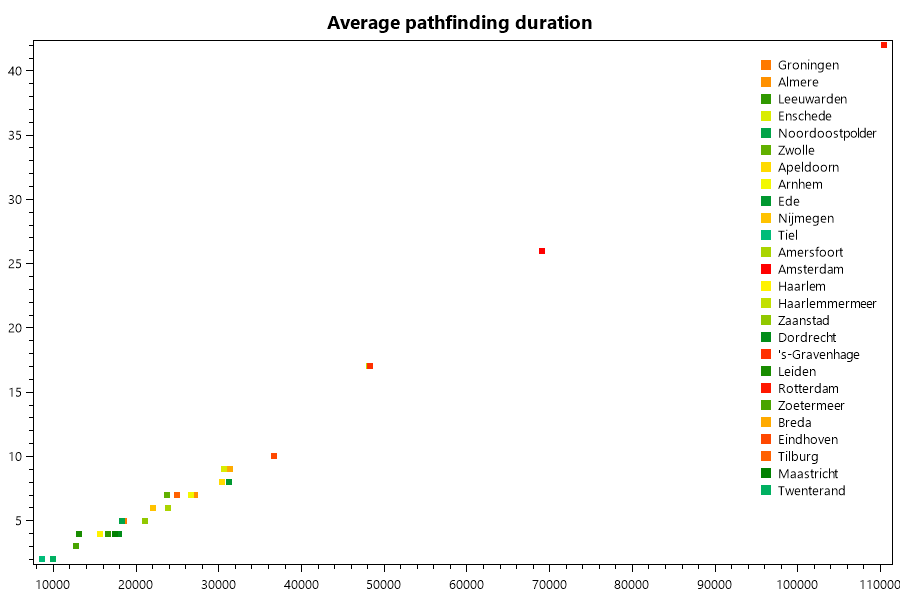
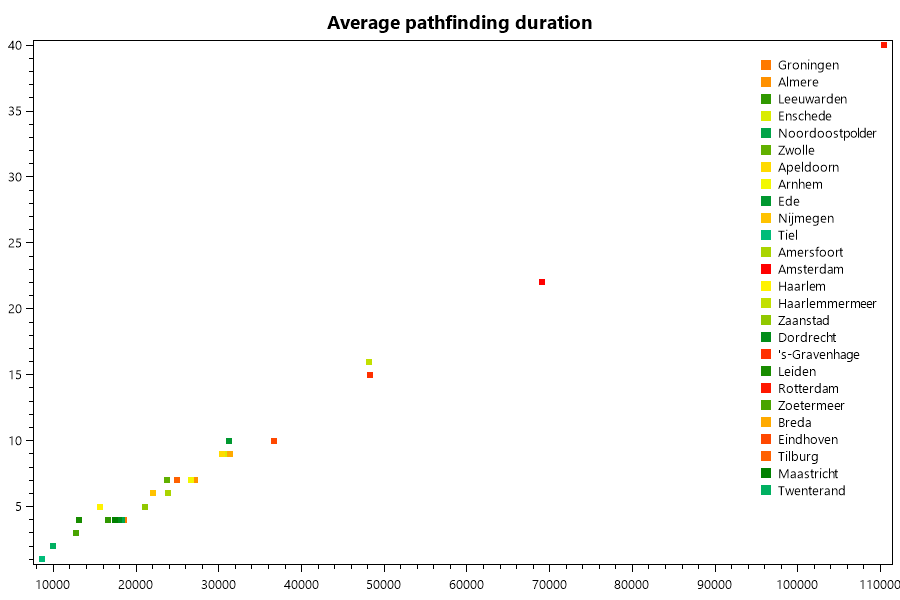
Some small optimizations

diff --git a/src/Agency.Test/Routemap/Gemeentes.cs b/src/Agency.Test/Routemap/Gemeentes.cs
@@ -2,6 +2,7 @@
 using System.Collections.Generic;
 using System.Linq;
 using Agency.Common;
+using Agency.Mathmatics;
 using Agency.Network.RoadRunner;
 using Agency.Test.Extensibility;
 using NUnit.Framework;
@@ -144,6 +145,7 @@ namespace Agency.Test.Routemap
         public void Benchmark()
         {
             var checksum = new Checksum();
+            var durations = new List<float>();
             PlotGemeente(map =>
             {
                 var network = map.CreateNetwork(Modality.Car);
@@ -153,8 +155,12 @@ namespace Agency.Test.Routemap
                 };
                 var result = benchmark.Run();
                 checksum.Add(result.Checksum);
+                durations.AddRange(result.Stats.Sorted());
                 return (network.Nodes.Count, (int)result.Stats.Average);
             }, $"Average pathfinding duration", $"duration.png", g => importantGemeentes.Contains(g.Name));
+            var stats = new StatRange(durations);
+            TestContext.WriteLine(stats.ToString());
+            TestContext.WriteLine($"p95: {stats.GetPercentile(95):0.0}ms");
             TestContext.WriteLine($"Checksum: {checksum}");
             Assert.AreEqual(38616, checksum.Value);
         }

diff --git a/src/Agency/Pathfinding/Pathfinder.cs b/src/Agency/Pathfinding/Pathfinder.cs
@@ -17,7 +17,10 @@ namespace Agency.Pathfinding
 		public Pathfinder(NetworkAdapter network)
 		{
 			this.network = network;
-			this.CreateNodeVisitContainer = () => new NodeVisitArray(network.MaxId());
+			var maxId = network.MaxId();
+			this.CreateNodeVisitContainer = () => new NodeVisitArray(maxId);
+			this.fringe = new FastPriorityQueue<NodeVisit>(maxId);
+
 		}
 
 		private readonly NetworkAdapter network;
@@ -146,7 +149,7 @@ namespace Agency.Pathfinding
 
 
 		private void Init() {
-			this.fringe = new FastPriorityQueue<NodeVisit>(network.MaxId());
+			this.fringe.Clear();
 			this.Intermediate = new IntermediateResults
             {
                 Vertices = CreateNodeVisitContainer()

diff --git a/src/Agency.Test/Routemap/Benchmark.cs b/src/Agency.Test/Routemap/Benchmark.cs
@@ -27,10 +27,10 @@ namespace Agency.Test.Routemap
             var durations = new List<float>();
             var random = new Random(Seed);
             var checksum = new Checksum();
+            var pathfinder = Network.CreatePathfinder(MaximumSpeed);
             for (var i = 0; i < Iterations; i++)
             {
                 var start = DateTime.UtcNow;
-                var pathfinder = Network.CreatePathfinder(MaximumSpeed);
                 pathfinder.Start = Network.Nodes.PickRandom(random);
                 pathfinder.Destination = Network.Nodes.PickRandom(random);
                 var result = pathfinder.Run();
